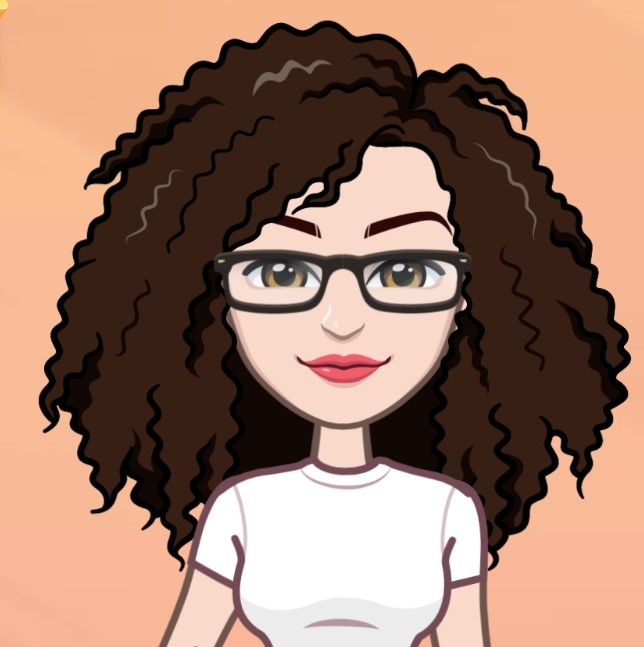
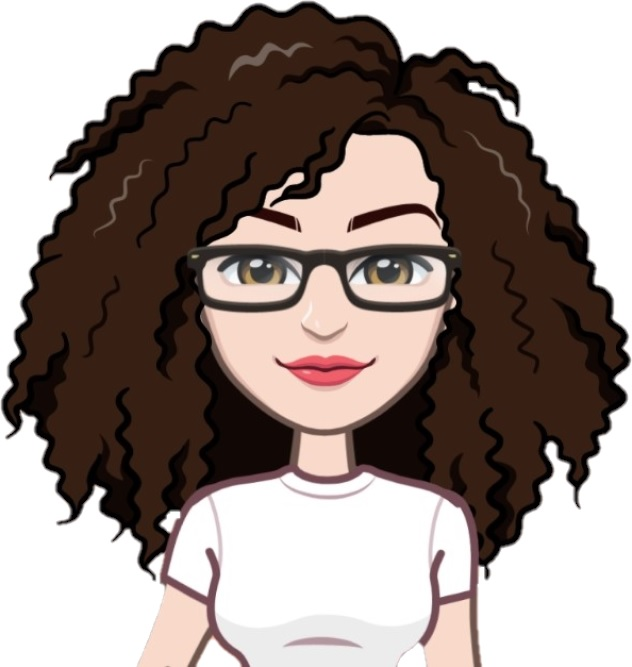
changed the image and colors

diff --git a/static/css/base.css b/static/css/base.css
@@ -1,10 +1,6 @@
 body {
   height: 100vh;
-  background: radial-gradient(
-    ellipse at center,
-    rgba(255, 255, 255, 0.7) 0%,
-    rgb(235, 180, 135) 100%
-  );
+  background: #ffffff;
 }
 
 #logocontainer {
@@ -15,21 +11,28 @@ body {
   width: 650px;
   height: 650px;
   position: absolute;
+  border-radius: 10%;
 }
 
 .btn-primary {
     color: #fff;
-    background-color: #371f13;
-    border-color: #371f13;
+    background-color: #381e13;;
+    border-color: #381e13;;
     font-size: 30px;
+}
+
+.btn-primary:hover {
+    color: #fff;
+    background-color: #ac8d64;
+    border-color: #ac8d64;
 }
 
 #about {
   margin: 0;
   position: absolute;
   top: 67%;
-  left: 20%;
-  width: 15%;
+  left: 0%;
+  width: 30%;
   transform: translate(-50%, -50%);
   transform-origin: center center;
 }
@@ -38,8 +41,8 @@ body {
   margin: 0;
   position: absolute;
   top: 37%;
-  left: 30%;
-  width: 15%;
+  left: 10%;
+  width: 30%;
   transform: translate(-50%, -50%);
 }
 
@@ -48,7 +51,7 @@ body {
   position: absolute;
   top: 20%;
   left: 50%;
-  width: 15%;
+  width: 30%;
   transform: translate(-50%, -50%);
 }
 
@@ -56,8 +59,8 @@ body {
   margin: 0;
   position: absolute;
   top: 37%;
-  left: 70%;
-  width: 15%;
+  left: 90%;
+  width: 30%;
   transform: translate(-50%, -50%);
 }
 
@@ -65,8 +68,8 @@ body {
   margin: 0;
   position: absolute;
   top: 67%;
-  left: 80%;
-  width: 15%;
+  left: 100%;
+  width: 30%;
   transform: translate(-50%, -50%);
 }
 
@@ -78,4 +81,8 @@ body {
   width: 50%;
   transform: translate(-50%, -50%);
   z-index: -5;
+}
+
+.rounded-circle {
+    border-radius: 55%!important;
 }
